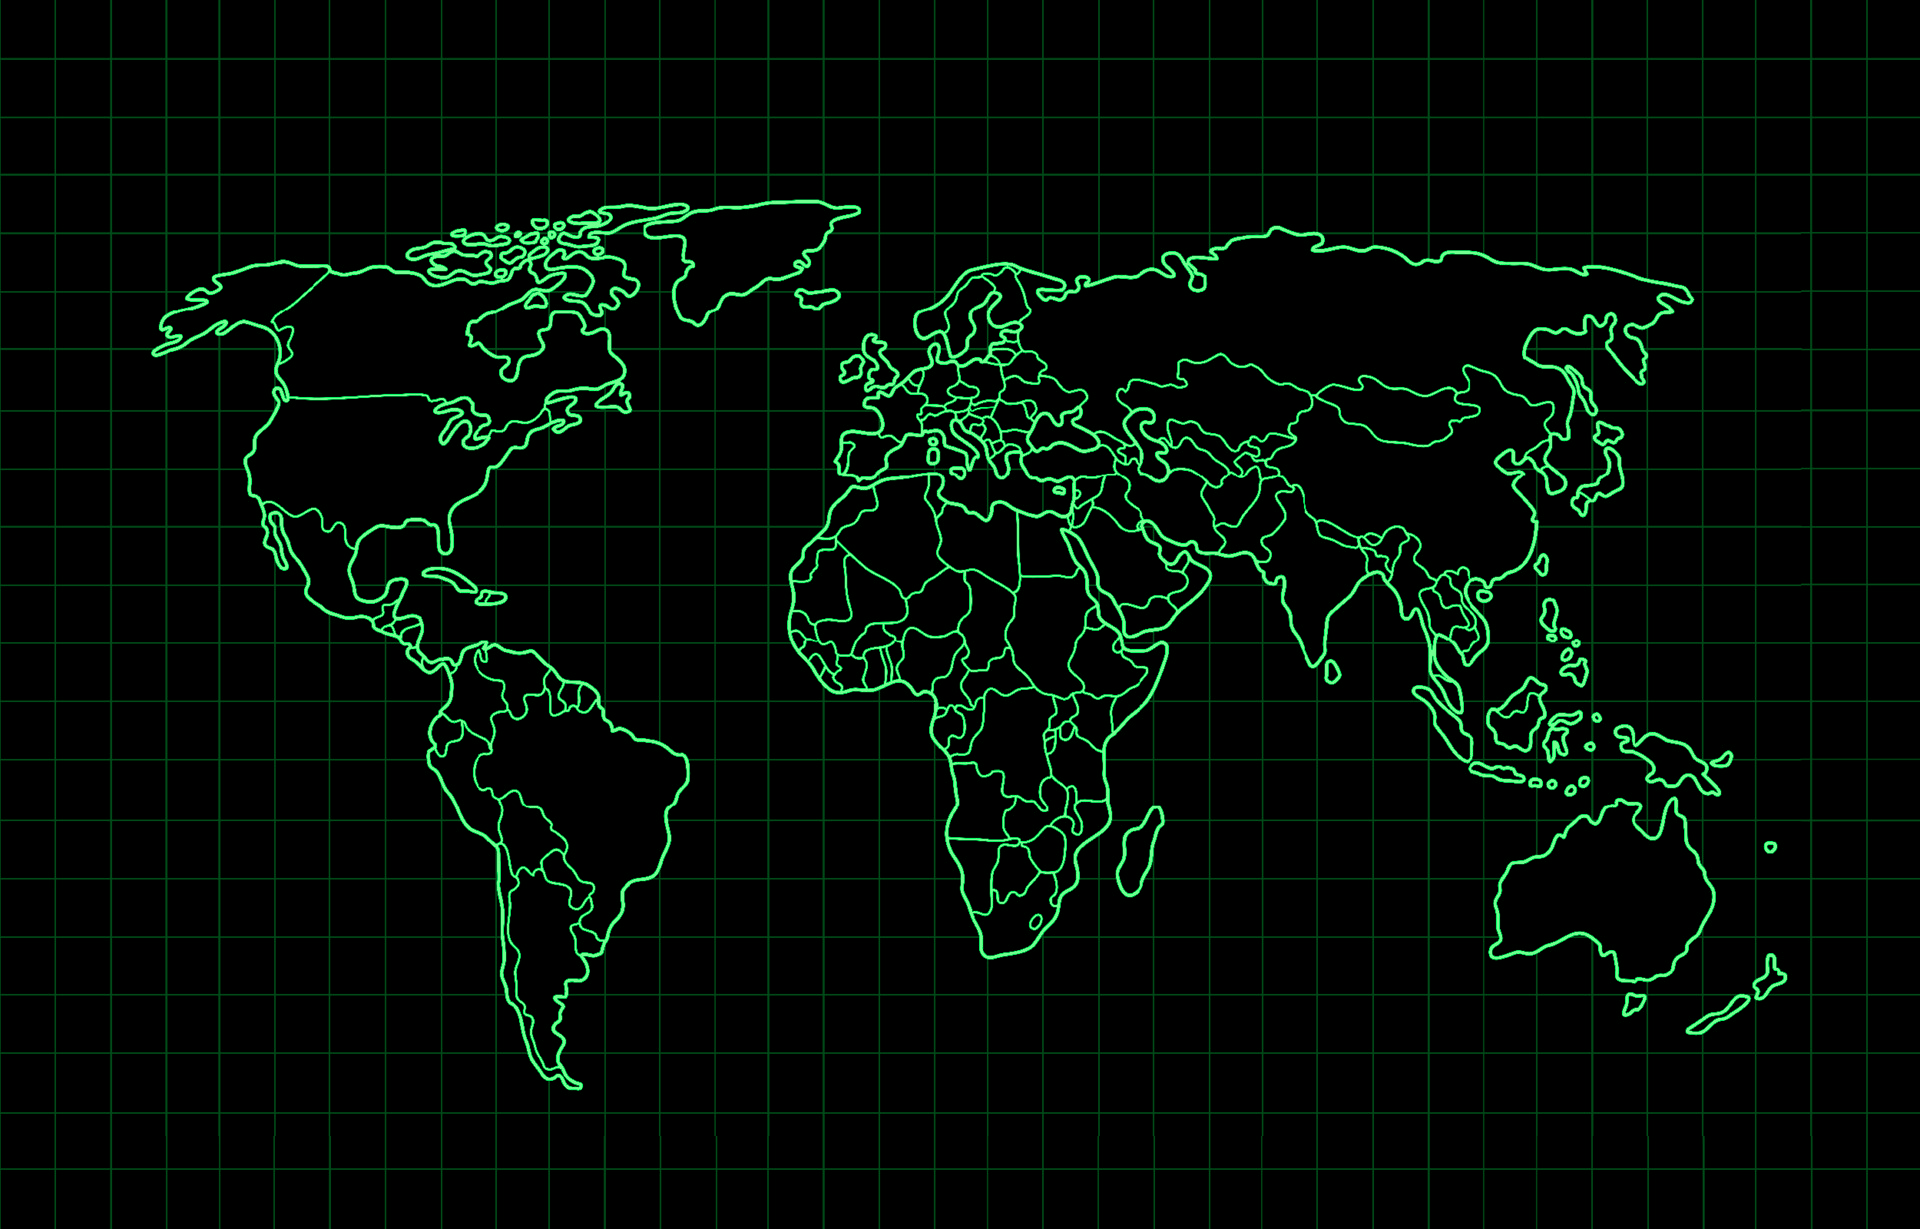
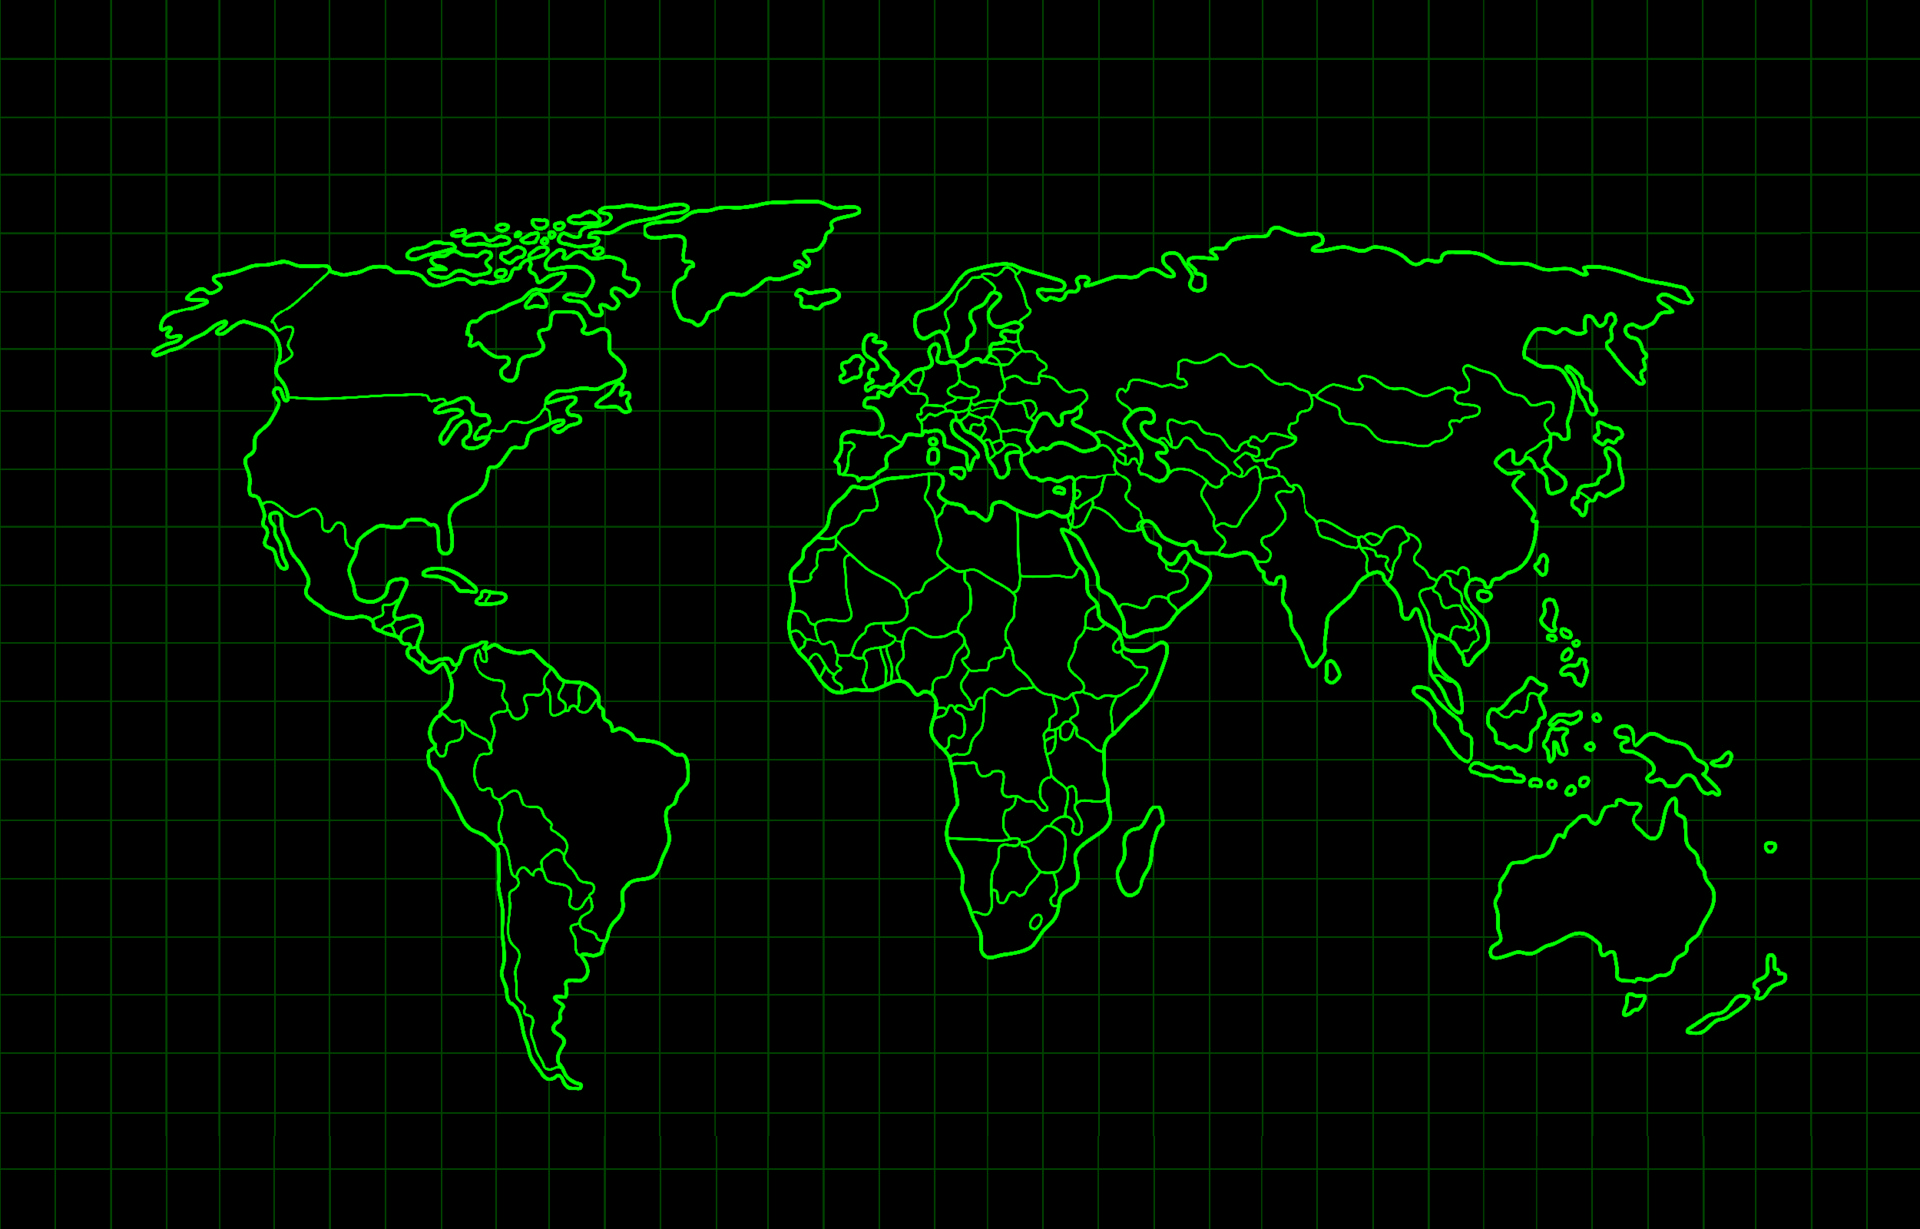
fixing styling and colors

diff --git a/site/src/lib/assets/gltf/promo-animation.svelte b/site/src/lib/assets/gltf/promo-animation.svelte
@@ -4,7 +4,6 @@
 		Color,
 		Group,
 		LoopOnce,
-		LoopPingPong,
 		Material,
 		Mesh,
 		MeshBasicMaterial,
@@ -14,13 +13,13 @@
 		Vector2
 	} from 'three';
 	import { T, useTask } from '@threlte/core';
-	import { interactivity, Text, useCursor, useGltf, useGltfAnimations } from '@threlte/extras';
+	import { interactivity, useCursor, useGltf, useGltfAnimations } from '@threlte/extras';
 	import SiteAnimation from '$lib/assets/gltf/site-animation.glb';
 	import WorldReverseImage from '$lib/assets/images/WorldReverseGreen.png';
 	import FloorTexture from '$lib/assets/images/Grid.png';
-	import { Spring, Tween } from 'svelte/motion';
-	import { mix } from 'three/tsl';
-
+	import { Tween } from 'svelte/motion';
+	import { onMount } from 'svelte';
+	
 	let { fallback, error, children, ref = $bindable(), ...props } = $props();
 	ref = new Group();
 	const gltf = useGltf<{
@@ -32,16 +31,21 @@
 	interactivity();
 
 	const { onPointerEnter, onPointerLeave } = useCursor();
-
 	let constalationOpen = $state(false);
-
 	const sphereProps = {
 		Sphere01: createSphere()
 	} as const;
-
 	const cameraZoom = new Tween(200);
 	const wireframeMaterial = createWorldTexture();
 	const floorMaterial = createFloorMaterial();
+
+	const torusMaterial = new MeshStandardMaterial({
+		color: new Color().setRGB(0, 1, 0),
+		emissive: new Color().setRGB(0, 1, 0),
+		emissiveIntensity: 1,
+		normalScale: new Vector2(1, -1),
+		side: 2,
+	})
 
 	let sphereRotation = $state(0);
 
@@ -109,6 +113,7 @@
 		material.transparent = true;
 		return material;
 	}
+
 </script>
 
 <T is={ref} dispose={false} {...props}>
@@ -193,49 +198,49 @@
 			<T.Mesh
 				name="Torus01"
 				geometry={gltf.nodes.Torus01.geometry}
-				material={gltf.materials['Torus.001']}
+				material={torusMaterial}
 				position={[0, 0.01, 0]}
 				scale={0.96}
 			/>
 			<T.Mesh
 				name="Torus02"
 				geometry={gltf.nodes.Torus02.geometry}
-				material={gltf.materials.Torus}
+				material={torusMaterial}
 				position={[0, 0.01, 0]}
 				scale={0.96}
 			/>
 			<T.Mesh
 				name="Torus03"
 				geometry={gltf.nodes.Torus03.geometry}
-				material={gltf.materials.Torus}
+				material={torusMaterial}
 				position={[0, 0.01, 0]}
 				scale={0.96}
 			/>
 			<T.Mesh
 				name="Torus04"
 				geometry={gltf.nodes.Torus04.geometry}
-				material={gltf.materials.Torus}
+				material={torusMaterial}
 				position={[0, 0.01, 0]}
 				scale={0.96}
 			/>
 			<T.Mesh
 				name="Torus05"
 				geometry={gltf.nodes.Torus05.geometry}
-				material={gltf.materials.Torus}
+				material={torusMaterial}
 				position={[0, 0.01, 0]}
 				scale={0.96}
 			/>
 			<T.Mesh
 				name="Torus06"
 				geometry={gltf.nodes.Torus06.geometry}
-				material={gltf.materials.Torus}
+				material={torusMaterial}
 				position={[0, 0.01, 0]}
 				scale={0.96}
 			/>
 			<T.Mesh
 				name="Torus07"
 				geometry={gltf.nodes.Torus07.geometry}
-				material={gltf.materials.Torus}
+				material={torusMaterial}
 				position={[0, 0.01, 0]}
 				scale={0.96}
 			/>

diff --git a/site/src/routes/promo/+page.svelte b/site/src/routes/promo/+page.svelte
@@ -85,7 +85,7 @@
 			"code-left  count-down 	code-right"
 		;
 		background-color: black;
-		color: green;
+		color: #00ff00;
 		font-family: 'Courier New', Courier, monospace;
 	}
 
@@ -138,7 +138,7 @@
 		width: 100%;
 		height: 90%;
 		background-color: black;
-		color: #004400;
+		color: #005500;
 		border: none;
 		resize: none;
 		font-family: 'Courier New', Courier, monospace;
